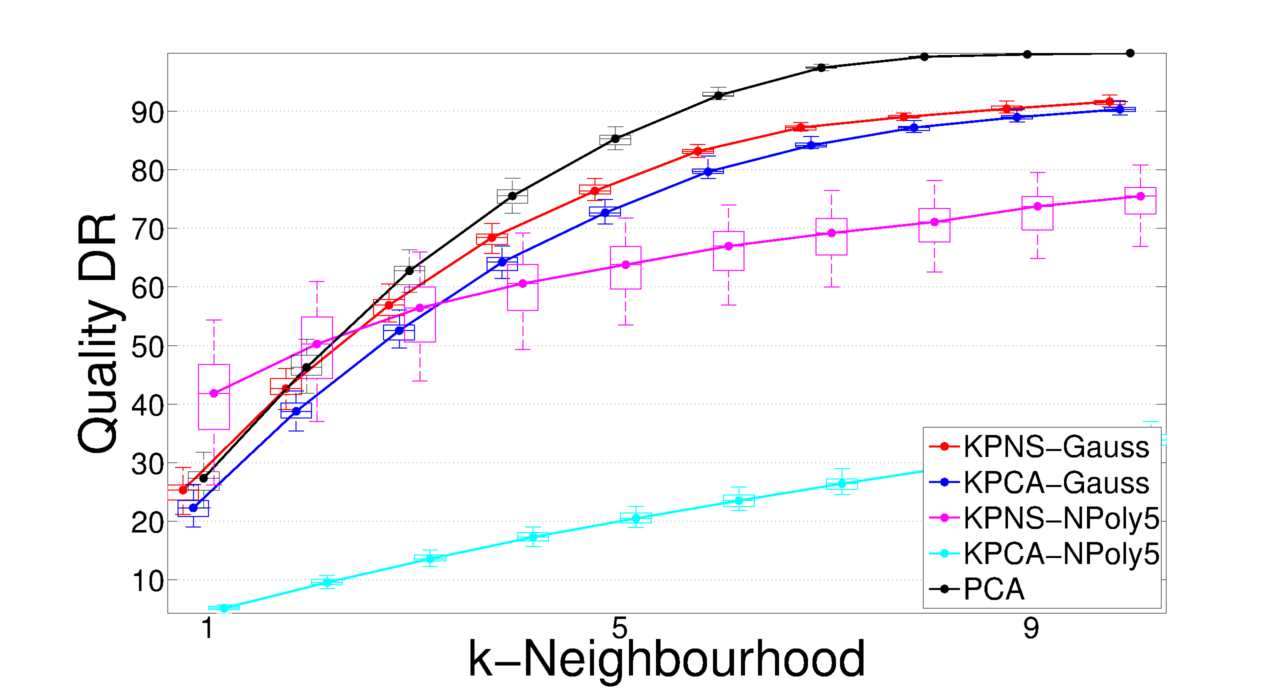
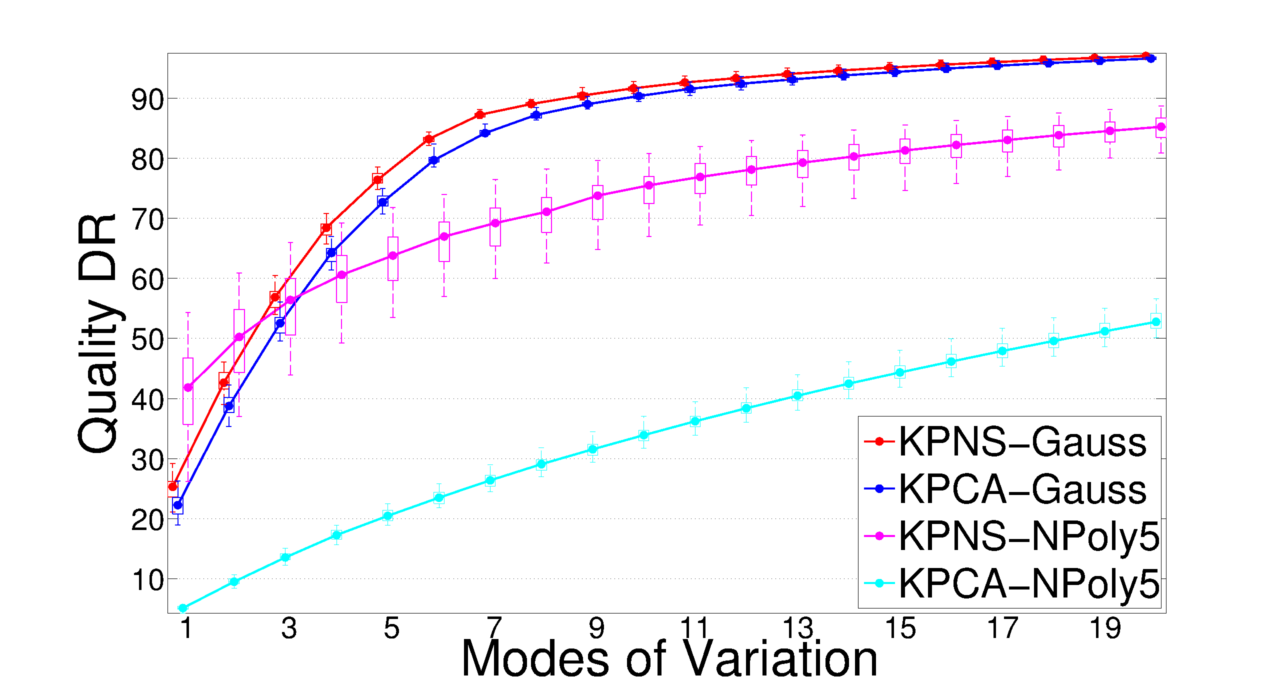
Finalised planning relax

diff --git a/code/kpns/boxplot_Frac.m b/code/kpns/boxplot_Frac.m
@@ -10,8 +10,8 @@ function   boxplot_Frac(A,name)
     index-0.1, median(new_A(:,:,2), 1), 'b.-', ...
     index+0.1, median(new_A(:,:,3), 1), 'm.-', ...
     index    , median(new_A(:,:,4), 1), 'c.-','LineWidth',2, 'MarkerSize', 25 );
- %  hLegend = legend('KPNS-Gauss','KPCA-Gauss','KPNS-NPoly5','KPCA-NPoly5','PCA','Location', 'southeast');
-    hLegend = legend('KPNS-Gauss','KPCA-Gauss','KPNS-NPoly5','KPCA-NPoly5','Location', 'east');
+    hLegend = legend('KPNS-Gauss','KPCA-Gauss','KPNS-NPoly5','KPCA-NPoly5','PCA','Location', 'southeast');
+%     hLegend = legend('KPNS-Gauss','KPCA-Gauss','KPNS-NPoly5','KPCA-NPoly5','Location', 'east');
     set(hLegend,'FontSize',40);
     
 

diff --git a/code/kpns/run_for_datasets.m b/code/kpns/run_for_datasets.m
@@ -21,7 +21,7 @@
 
 return
 
-%dim_reduction_leaf % sigmaFactor 0.5, nPolyDegree 18, percentage 70
+%dim_reduction_leaf % sigmaFactor 0.5, nPolyDegree 18, percentage 70 D
 %dim_reduction_seeds % sigmaFactor 0.5, nPolyDegree 4, percentage 70 D
 %dim_reduction_fertility % sigmaFactor 0.7, nPolyDegree 4, percentage 70 D
 %dim_reduction_planningrelax % sigmaFactor 1.4, nPolyDegree 8, percentage 70

diff --git a/code/kpns/dim_reduction_planningrelax.m b/code/kpns/dim_reduction_planningrelax.m
@@ -7,4 +7,4 @@ rng(0);
 PGS =1;
 % Total_R = dim_reduction_data2(planningrelax,'Planning Relax',1,1);
 % Total_R
-dim_reduction_sampling(planningrelax,'Planning Relax',25,2,0);
+dim_reduction_sampling(planningrelax,'Planning Relax',25,2,1);
